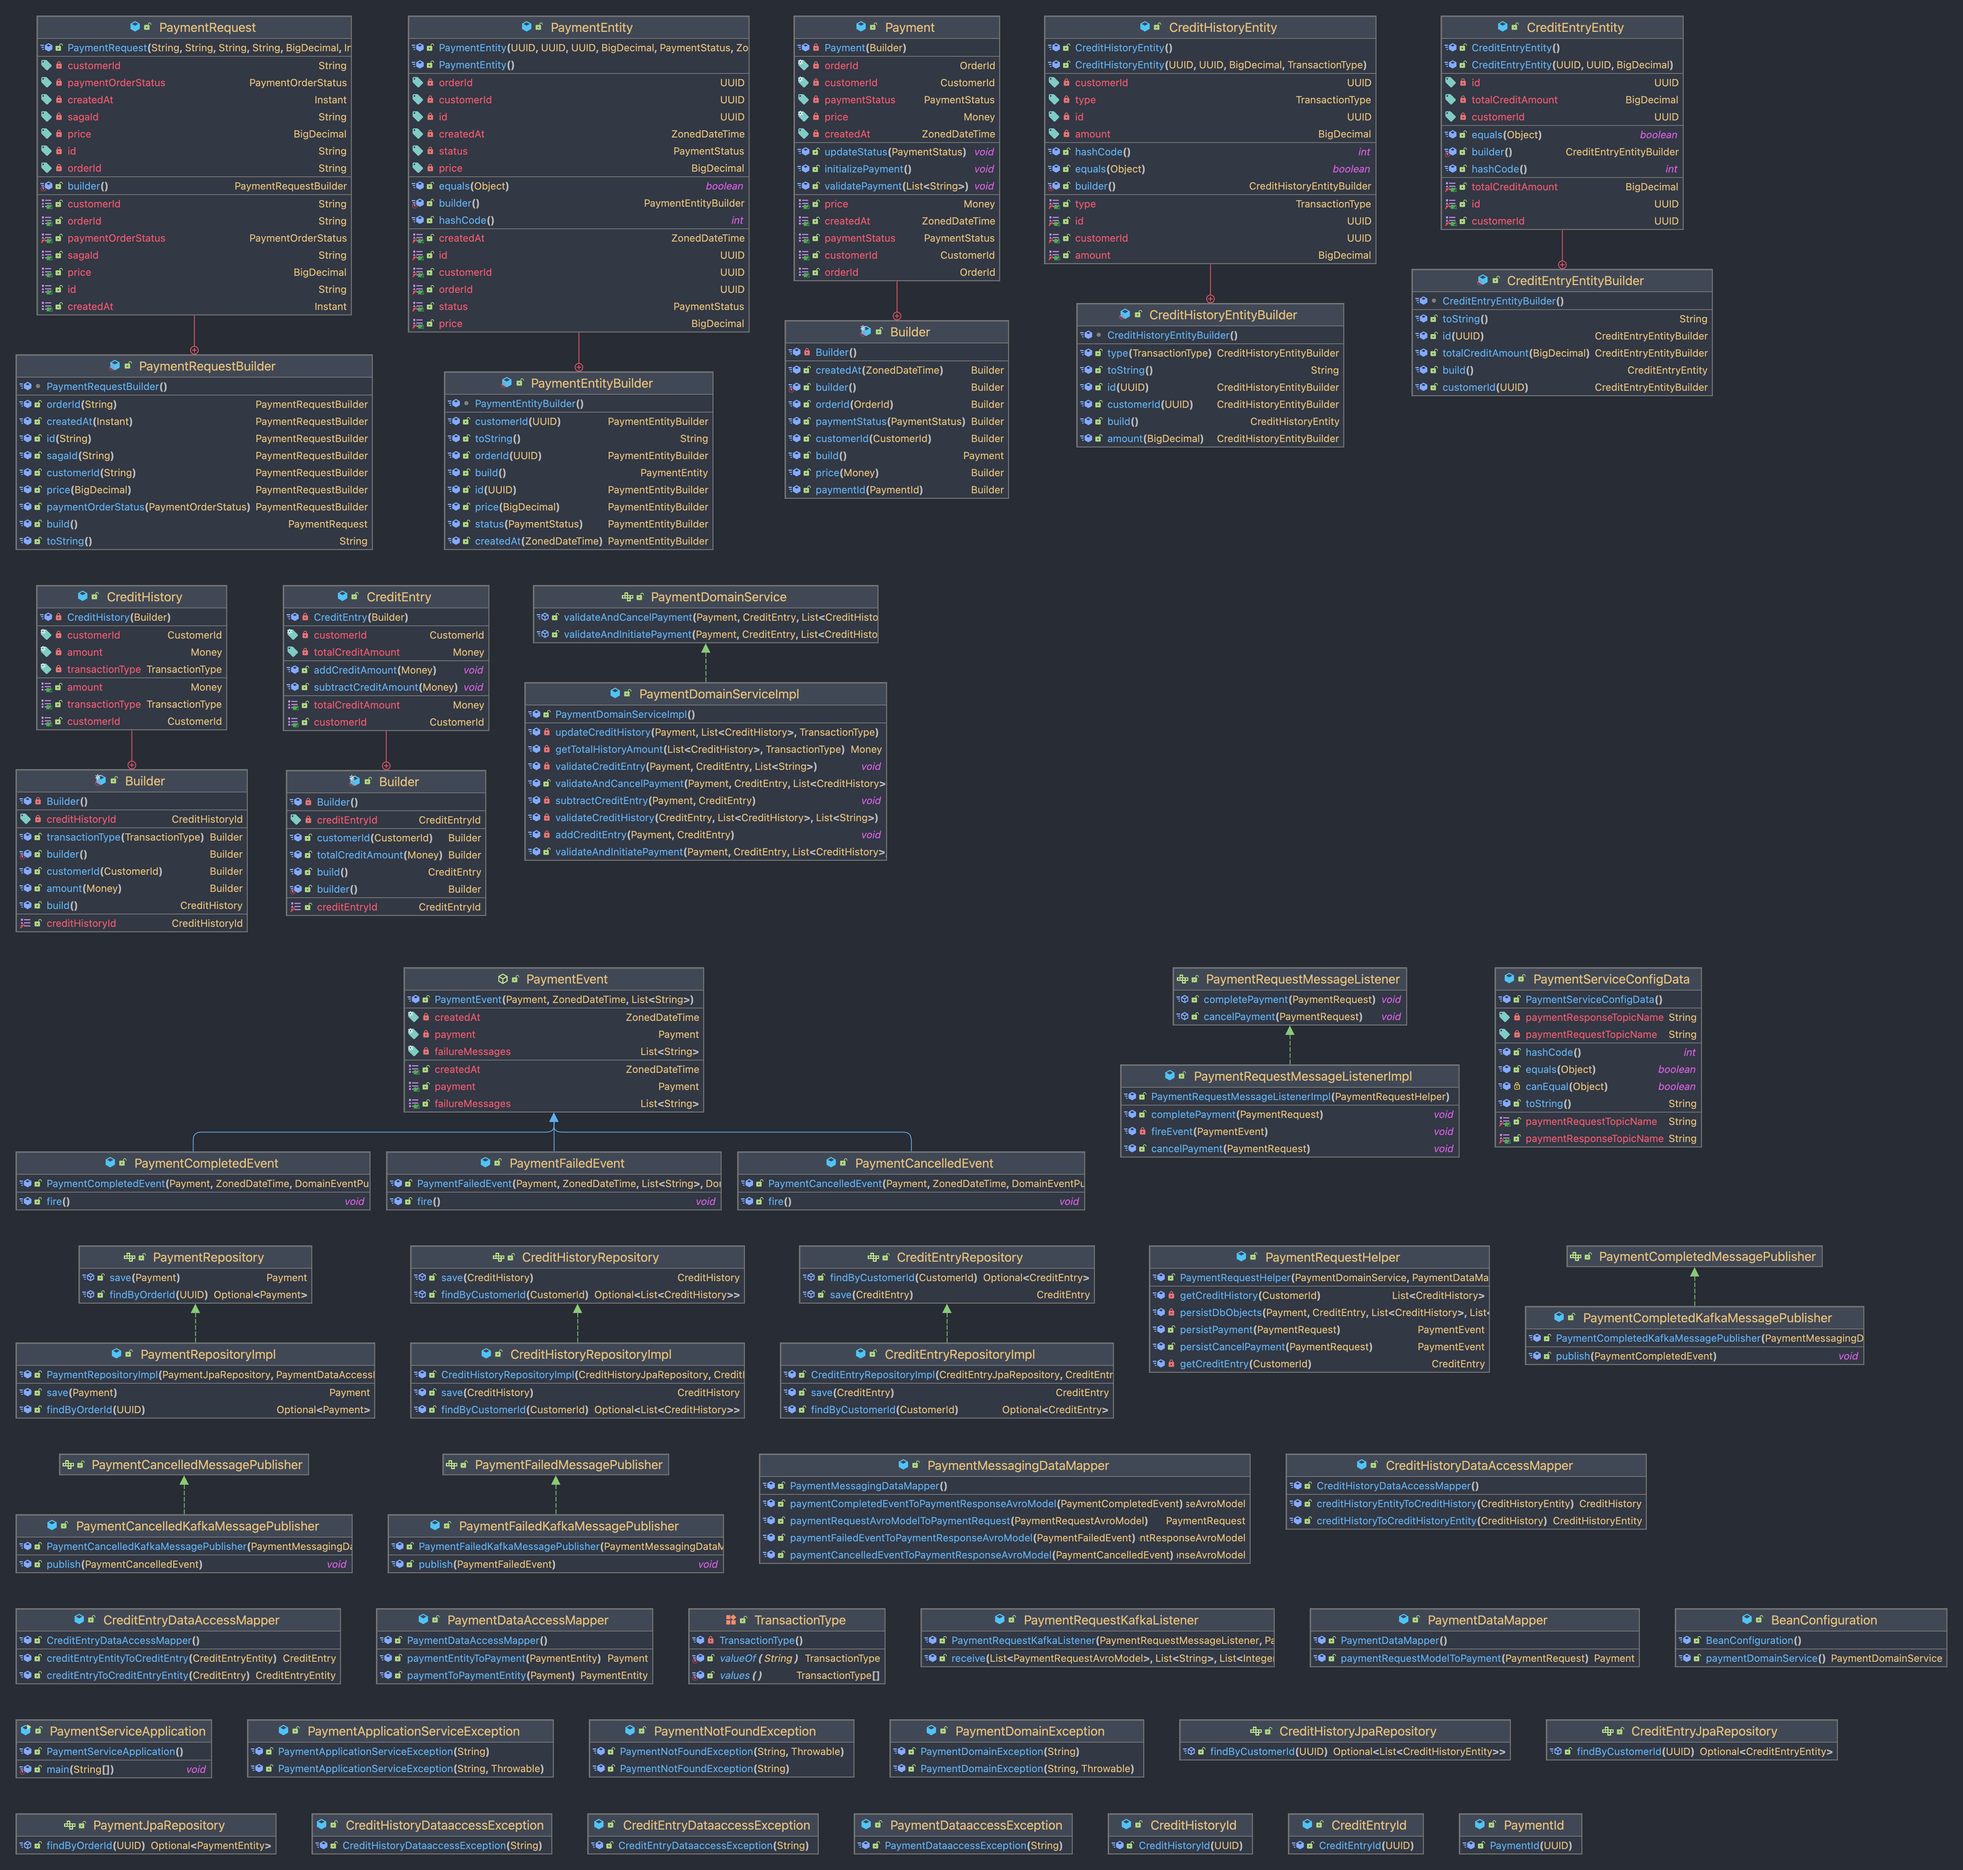
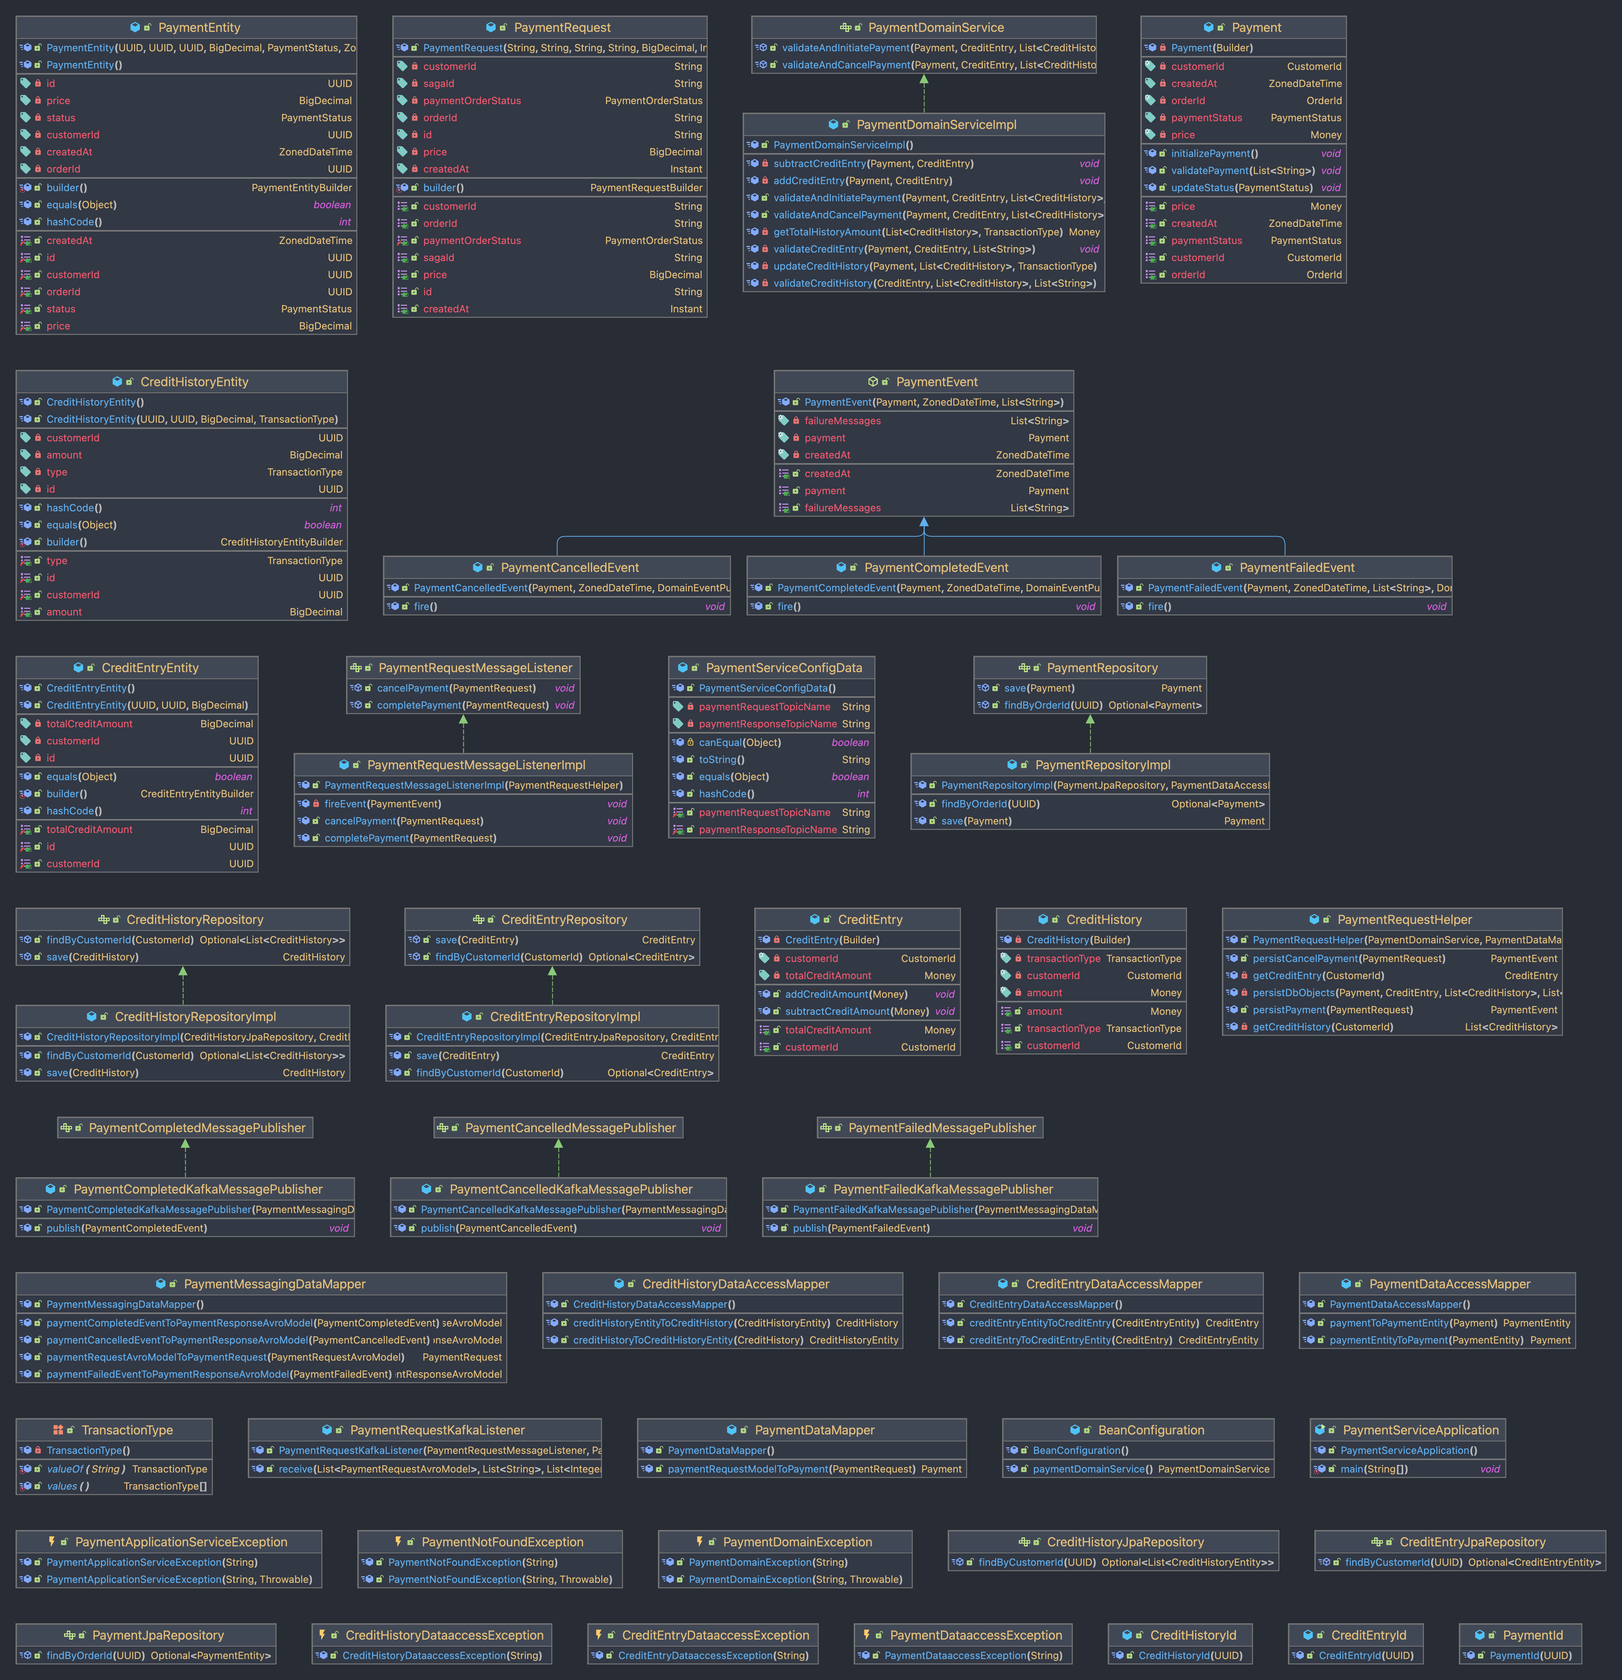
updated diagrams & removed builder classes from them

Changed region(s): [[0.0, 0.0, 0.9962, 0.9991]]

diff --git a/README.md b/README.md
@@ -36,6 +36,12 @@ maintainable, and easily extendable. Some of the key technical features of EatSt
 
 ![DDD diagram](.//docs/images/restaurantServiceDDD.png)
 
+## Microservice Design Patterns Used
+
+### SAGA
+
+![SAGA](.//docs/images/saga.png)
+
 ## Class Diagrams
 
 ### Order Service
@@ -45,6 +51,10 @@ maintainable, and easily extendable. Some of the key technical features of EatSt
 ### Payment Service
 
 ![Class diagram](.//docs/images/payment-service.png)
+
+### Restaurant Service
+
+![Class diagram](.//docs/images/restaurant-service.png)
 
 ### Combined System Class Diagram
 
